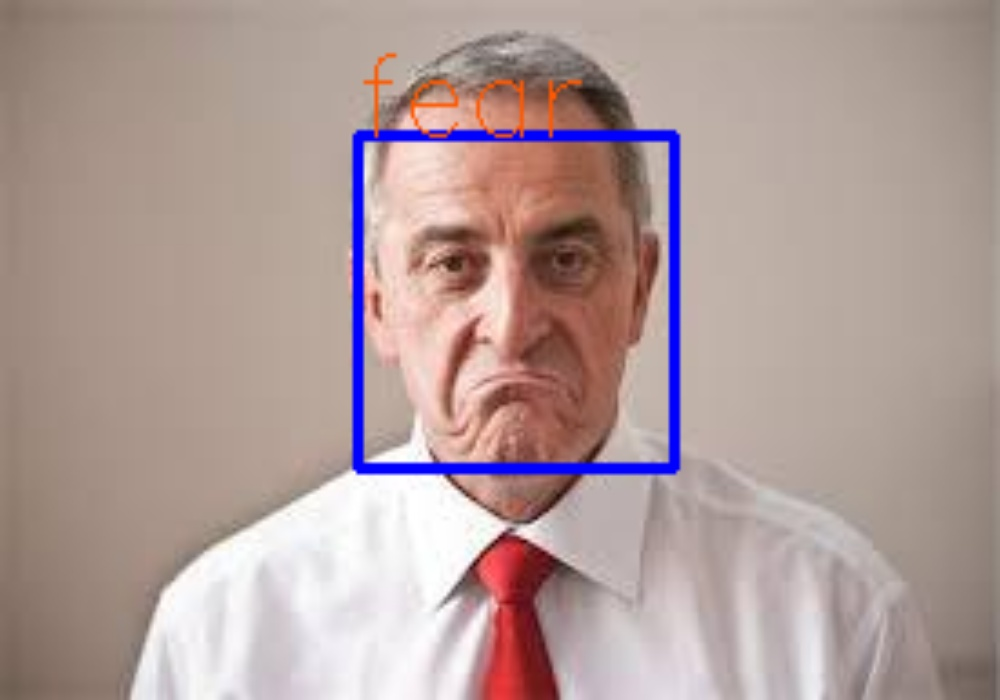
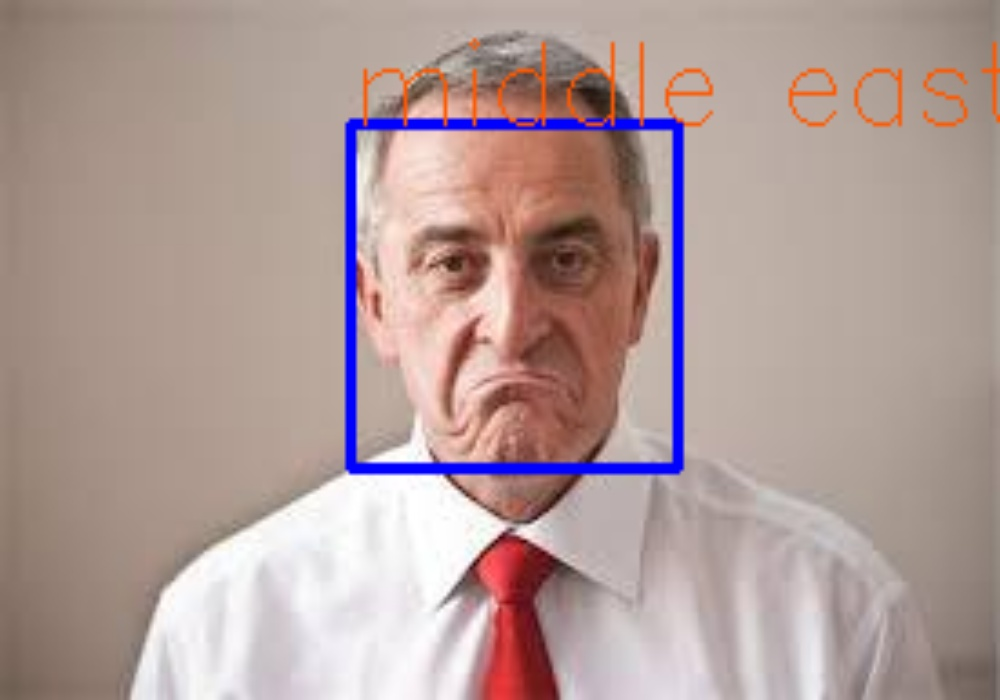
final version

Changed region(s): [[0.341, 0.06, 0.713, 0.69], [0.775, 0.06, 1.0, 0.18]]

diff --git a/apps/emotion_detection/singlemotiondetector.py b/apps/emotion_detection/singlemotiondetector.py
@@ -1,13 +1,12 @@
 # Python imports
 import warnings
-from os.path import abspath, join
+from os.path import join
 
 # external imports
 import cv2
-import imutils
 import numpy as np
+from deepface import DeepFace
 from keras.preprocessing import image
-from tensorflow.keras import models
 from tensorflow.keras.layers import (
     AveragePooling2D,
     Conv2D,
@@ -22,23 +21,32 @@ warnings.filterwarnings("ignore")
 
 
 class SingleMotionDetector:
-    def __init__(self, img, emotion, age, race, gender) -> None:
+    """ SingleMotionDetector is a driver class that runs multiple
+    detecators and returns thier output as image paths
+    """
+    def __init__(self, img, action) -> None:
         self.face_haar_cascade = cv2.CascadeClassifier(
             cv2.data.haarcascades + "haarcascade_frontalface_default.xml"
         )
         self.media_dir = "static/processed_imgs"
         self.img = img
-        self.emotion = emotion
-        self.age = age
-        self.race = race
-        self.gender = gender
+        self.action = action
 
     def __call__(self, *args, **kwds):
-        emotion_detecator = self.emotion_detecator(self.img)
-        return emotion_detecator
+        if self.action == "emotion":
+            emotion_detecator = self.emotion_detecation(self.img)
+            return emotion_detecator
 
-    def emotion_detecator(self, test_img):
-        model = load_model("weights/emotion_model.h5")
+        elif self.action == "race":
+            race_detecation = self.race_detecation(self.img)
+            return race_detecation
+
+        elif self.action == "age":
+            age = self.age_detecation(self.img)
+            return age
+
+    def main_emotion_detecator(self, test_img):
+        model = load_model("weights/best_model.h5")
         emotions = [
             "angry",
             "disgust",
@@ -51,9 +59,10 @@ class SingleMotionDetector:
 
         readed_img = cv2.imread(test_img)
         gray_img = cv2.cvtColor(readed_img, cv2.COLOR_BGR2RGB)
+        
         # detect the faces
         face_detected = self.face_haar_cascade.detectMultiScale(gray_img)
-        
+
         for (x, y, w, h) in face_detected:
             cv2.rectangle(
                 readed_img, (x, y), (x + w, y + h), (0, 255, 255), thickness=2
@@ -61,13 +70,12 @@ class SingleMotionDetector:
             roi_gray = gray_img[
                 y : y + w, x : x + h
             ]  # cropping region of interest i.e. face area from  image
-            roi_gray = cv2.resize(roi_gray, (48, 48))
+            roi_gray = cv2.resize(roi_gray, (224, 224))
+            img_pixels = image.img_to_array(roi_gray)
+            img_pixels = np.expand_dims(img_pixels, axis=0)
+            img_pixels /= 255
 
-            roi = roi_gray.astype('float')/255.0
-            # roi = image.img_to_array(roi)
-            roi = np.expand_dims(roi, axis=-1)
-
-            prediction = model.predict(roi)[0]
+            prediction = model.predict(img_pixels)[0]
 
             # find max indexed array
             max_index = np.argmax(prediction)
@@ -88,6 +96,109 @@ class SingleMotionDetector:
         resized_img = cv2.resize(readed_img, (1000, 700))
 
         new_image = f"{join(self.media_dir, test_img.split('/')[-1].split('.')[0])}.jpg"
+
+        # save the image to the media directory
+        cv2.imwrite(new_image, resized_img)
+
+        return new_image
+
+    def emotion_detecation(self, img):
+        analysis = DeepFace.analyze(img_path=img, actions=["emotion"])
+        dominant_face = analysis["dominant_emotion"]
+
+        x = analysis["region"]["x"]
+        y = analysis["region"]["y"]
+        w = analysis["region"]["w"]
+        h = analysis["region"]["h"]
+
+        cv2_img = cv2.imread(img)
+
+        cv2.rectangle(cv2_img, (x, y), (x + w, y + h), (255, 0, 0), thickness=2)
+
+        cv2.putText(
+            cv2_img,
+            dominant_face,
+            (int(x), int(y)),
+            cv2.FONT_HERSHEY_SIMPLEX,
+            1,
+            (0, 88, 255),
+            1,
+        )
+
+        # resize the width(1000) and the height(700)
+        resized_img = cv2.resize(cv2_img, (1000, 700))
+
+        new_image = f"{join(self.media_dir, img.split('/')[-1].split('.')[0])}.jpg"
+
+        # save the image to the media directory
+        cv2.imwrite(new_image, resized_img)
+
+        return new_image
+
+    def age_detecation(self, img):
+        analysis = DeepFace.analyze(
+            img_path=img, actions=["age"], enforce_detection=False
+        )
+        age_text = analysis["age"]
+
+        x = analysis["region"]["x"]
+        y = analysis["region"]["y"]
+        w = analysis["region"]["w"]
+        h = analysis["region"]["h"]
+
+        cv2_img = cv2.imread(img)
+
+        cv2.rectangle(cv2_img, (x, y), (x + w, y + h), (255, 0, 0), thickness=2)
+
+        cv2.putText(
+            cv2_img,
+            "Age: " + str(age_text),
+            (int(x), int(y)),
+            cv2.FONT_HERSHEY_SIMPLEX,
+            1,
+            (0, 88, 255),
+            1,
+        )
+
+        # resize the width(1000) and the height(700)
+        resized_img = cv2.resize(cv2_img, (1000, 700))
+
+        new_image = f"{join(self.media_dir, img.split('/')[-1].split('.')[0])}.jpg"
+
+        # save the image to the media directory
+        cv2.imwrite(new_image, resized_img)
+
+        return new_image
+
+    def race_detecation(self, img):
+        analysis = DeepFace.analyze(
+            img_path=img, actions=["race"], enforce_detection=False
+        )
+        dominant_race = analysis["dominant_race"]
+
+        x = analysis["region"]["x"]
+        y = analysis["region"]["y"]
+        w = analysis["region"]["w"]
+        h = analysis["region"]["h"]
+
+        cv2_img = cv2.imread(img)
+
+        cv2.rectangle(cv2_img, (x, y), (x + w, y + h), (255, 0, 0), thickness=2)
+
+        cv2.putText(
+            cv2_img,
+            str(dominant_race),
+            (int(x), int(y)),
+            cv2.FONT_HERSHEY_SIMPLEX,
+            1,
+            (0, 88, 255),
+            1,
+        )
+
+        # resize the width(1000) and the height(700)
+        resized_img = cv2.resize(cv2_img, (1000, 700))
+
+        new_image = f"{join(self.media_dir, img.split('/')[-1].split('.')[0])}.jpg"
 
         # save the image to the media directory
         cv2.imwrite(new_image, resized_img)

diff --git a/apps/emotion_detection/views.py b/apps/emotion_detection/views.py
@@ -3,16 +3,12 @@ from base64 import b64encode
 from io import BytesIO
 from os.path import join
 from posixpath import abspath
-import re
 
 # Django imports
-from django import template
 from django.http import HttpResponse
-from django.http.response import HttpResponseRedirect
 from django.shortcuts import render
 from django.urls import reverse
-from django.views.generic import FormView, TemplateView, View
-from django.views.generic.edit import FormMixin
+from django.views.generic import FormView, TemplateView
 
 # external imports
 import PIL.Image as Image
@@ -23,6 +19,7 @@ from .singlemotiondetector import SingleMotionDetector
 
 
 class MainView(TemplateView):
+    """ Main view for displaying the main page"""
     template_name = "index.html"
 
     def get(self, request, *args, **kwargs):
@@ -36,11 +33,17 @@ class MainView(TemplateView):
 
 
 class DetectorView(FormView):
+    """ Form view to retrieve the images from
+    the form and save to the local directory,
+    and runs the SingleEmotionDetector class
+    and return output to the frontend.
+    """
     form_class = ImageForm
     template_name = "game2.html"
 
     def form_valid(self, form) -> HttpResponse:
         cleaned_data = form.cleaned_data
+
         # frontend checkboxs boolean values
         age, emotion, race = (
             cleaned_data["age"],
@@ -48,23 +51,40 @@ class DetectorView(FormView):
             cleaned_data["race"],
         )
         image_name, img_file = cleaned_data["image"].name, cleaned_data["image"].file
+
         # read the binary format of the file and save it to 'media/recieved_imgs/' directory
         file_binary = BytesIO.read(img_file)
-        image = Image.open(BytesIO(file_binary))
-        image.save("media/recieved_imgs/" + image_name)
+
         # relative path for the image that got to be process
-        img_to_process = "media/recieved_imgs/" + image_name
+        image_path = "media/recieved_imgs/" + image_name
+        image_media_path = "static/media/recieved_imgs/" + image_name
+
+        image = Image.open(BytesIO(file_binary))
+
+        # save to the main media file
+        image.save(image_path)
+
+        # save to the static media file
+        image.save(image_media_path)
+
+        # django context variables for fronted usage
+        context = self.get_context_data()
 
         if emotion:
-            driver = SingleMotionDetector(img_to_process, True, False, False, False)
-            driver_output = driver()
-
-            context = self.get_context_data()
-            context["image"] = "/".join(driver_output.split("/")[1:])
-
-            return render(self.request, self.template_name, context)
+            driver = SingleMotionDetector(image_path, "emotion")
+        elif age:
+            driver = SingleMotionDetector(image_path, "age")
+        elif race:
+            driver = SingleMotionDetector(image_path, "race")
         else:
-            return HttpResponseRedirect(self.get_success_url())
+            context["image"] = image_path
+            return render(self.request, self.template_name, context)
+
+        driver_output = driver()
+
+        context["image"] = "/".join(driver_output.split("/")[1:])
+
+        return render(self.request, self.template_name, context)
 
     def get_context_data(self, **kwargs):
         context = super().get_context_data(**kwargs)

diff --git a/apps/emotion_detection/forms.py b/apps/emotion_detection/forms.py
@@ -1,18 +1,13 @@
 # Django imports
 from django import forms
 
-# external imports
-from tensorflow.keras import models
-
 
 class ImageForm(forms.Form):
+    """Image form for initializing the main frontend variables"""
     image = forms.ImageField()
     emotion = forms.BooleanField(required=False)
     age = forms.BooleanField(required=False)
     race = forms.BooleanField(required=False)
 
-    CHOICES = (("E", "Emotion"), ("A", "Age"), ("G", "Gender"))
-
-    image_choices = forms.RadioSelect(choices=CHOICES)
-
+    # add attributes to the image tag <img>
     image.widget.attrs.update({"class": "form-control", "id": "formFile"})
